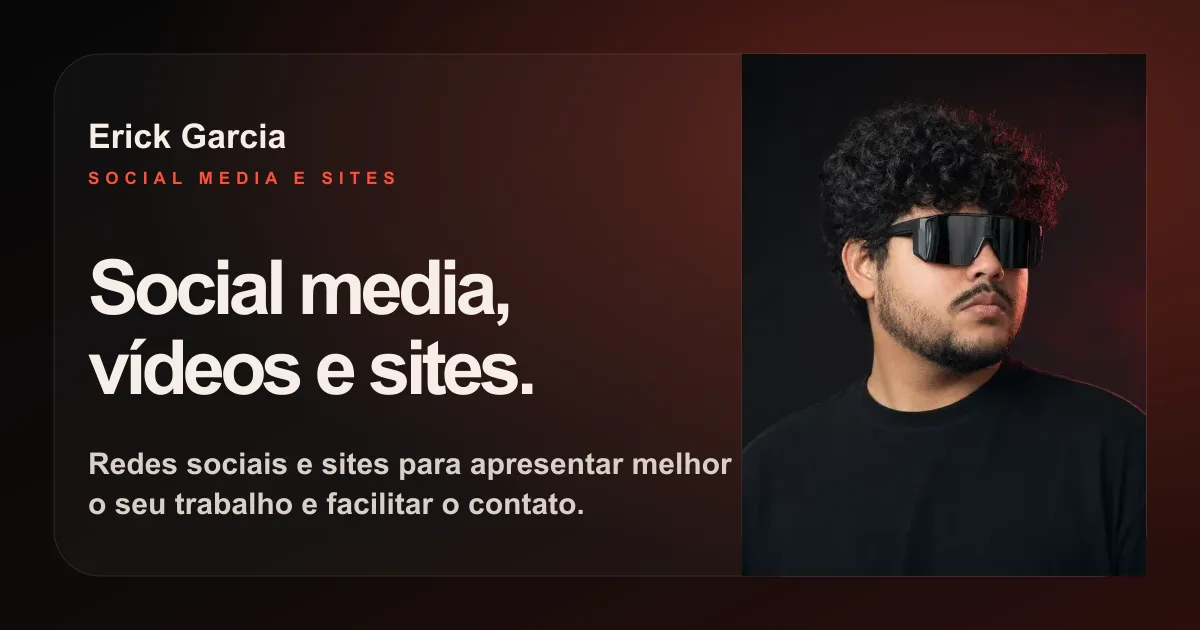
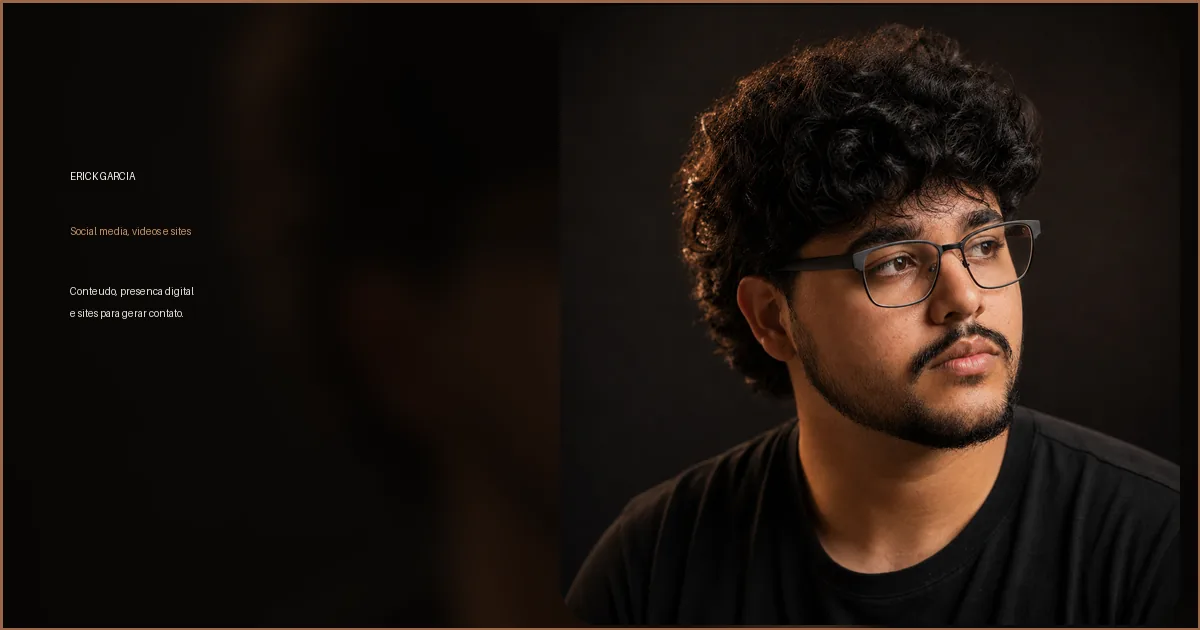
Atualiza foto principal e seletor de idioma

diff --git a/src/index.css b/src/index.css
@@ -109,3 +109,52 @@ code {
   padding: 4px 8px;
   background: var(--code-bg);
 }
+
+.header-language-switch {
+  display: inline-flex;
+  align-items: center;
+  gap: 0.25rem;
+  margin-left: 0.75rem;
+  padding: 0.25rem;
+  border: 1px solid rgba(255, 244, 236, 0.14);
+  border-radius: 999px;
+  background: rgba(255, 244, 236, 0.04);
+}
+
+.header-language-switch a {
+  display: inline-flex;
+  align-items: center;
+  justify-content: center;
+  min-width: 2.1rem;
+  min-height: 2.1rem;
+  padding: 0 0.55rem;
+  border-radius: 999px;
+  color: rgba(255, 244, 236, 0.68);
+  font-size: 0.72rem;
+  font-weight: 800;
+  letter-spacing: 0.06em;
+  text-decoration: none;
+}
+
+.header-language-switch a:hover,
+.header-language-switch a:focus-visible {
+  color: #fff4ec;
+  background: rgba(255, 244, 236, 0.08);
+}
+
+.header-language-switch a.is-active {
+  color: #090706;
+  background: #d29a6a;
+}
+
+@media (max-width: 860px) {
+  .header-language-switch {
+    margin-left: 0;
+  }
+
+  .header-language-switch a {
+    min-width: 2rem;
+    min-height: 2rem;
+    font-size: 0.68rem;
+  }
+}
